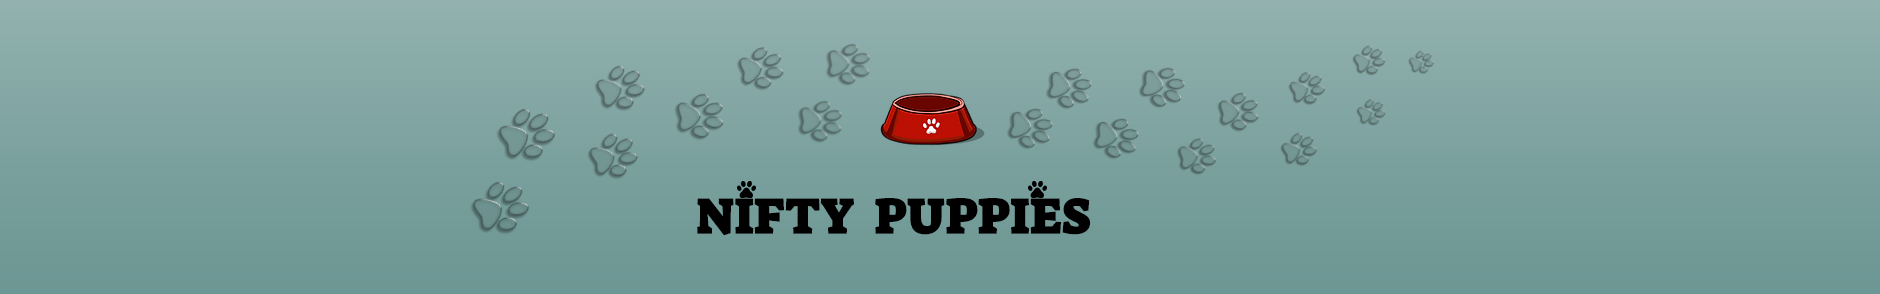
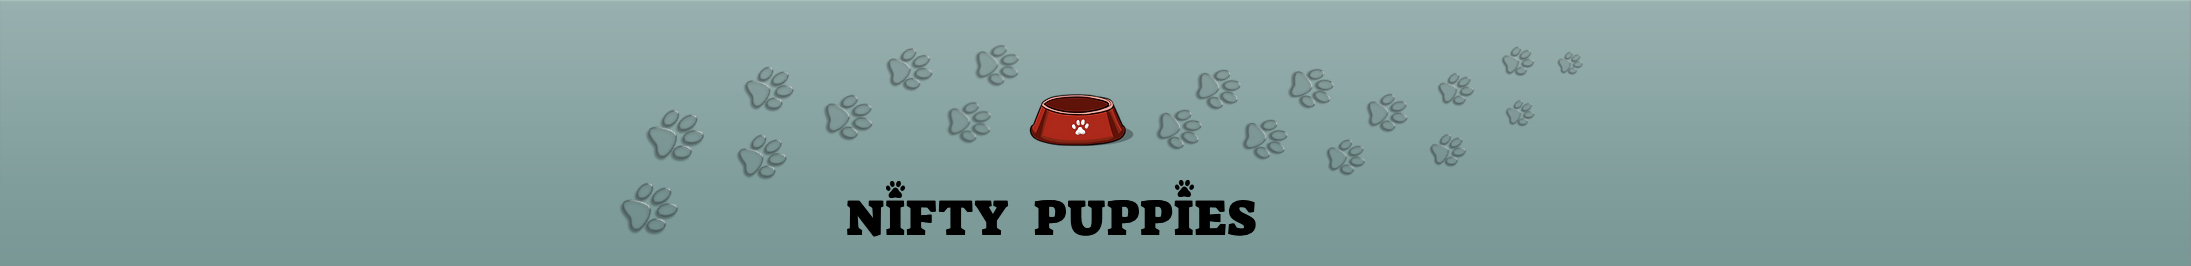
update 1

diff --git a/src/Components/Roadmap.js b/src/Components/Roadmap.js
@@ -7,7 +7,10 @@ import Img7 from "../Images/icon3.png";
 import Img8 from "../Images/icon4.png";
 import Img9 from "../Images/icon5.png";
 import { Link } from "react-router-dom";
-import paws from "../Images/paws.png";
+import paws from "../Images/paws1.png";
+import paws2 from "../Images/paws2.png";
+import paws3 from "../Images/paws3.png";
+import paws4 from "../Images/paws4.png";
 
 export default function Roadmap() {
   return (
@@ -55,9 +58,9 @@ export default function Roadmap() {
           <div className="col-4 col-sm-2 ml-auto">
             <img className="w-100" src={Img6} />
           </div>
-          <div className="col-12 col-sm-5 mt-5 mt-md-0">
+          <div className="col-12 col-sm-5 mt-5 mt-md-0 text-right text-sm-left">
             <h5 class="title">How much is that doggy in the window?</h5>
-            <p class="description text-left">
+            <p class="description text-right text-sm-left">
               <ul className="pl-3">
                 <li>
                   As soon as the first 100 free pups have been homes, we will
@@ -76,14 +79,14 @@ export default function Roadmap() {
           </div>
         </div>
         <div className="row">
-          <div className="col-1 col-sm-2"></div>
-          <div className="col-8 col-sm-4 ml-sm-auto">
-            <img src={paws} className="w-100 invertH" />
+          <div className="col-3 col-sm-5"></div>
+          <div className="col-8 col-sm-4">
+            <img src={paws2} className="w-100" />
           </div>
           <div className="col-1 col-sm-3"></div>
         </div>
         <div className="row flex-row-reverse">
-          <div className="col-12 col-sm-6"></div>
+          <div className="col-12 col-sm-"></div>
           <div className="col-4 col-sm-2 mr-auto">
             <img className="w-100" src={Img7} />
           </div>
@@ -103,17 +106,17 @@ export default function Roadmap() {
         <div className="row">
           <div className="col-1 col-sm-4"></div>
           <div className="col-8 col-sm-4">
-            <img src={paws} className="w-100 invertDeg" />
+            <img src={paws3} className="w-100" />
           </div>
         </div>
         <div className="row">
-          <div className="col-6 col-sm-5"></div>
-          <div className="col-4 col-sm-2 ml-au to">
+          <div className="col-8 col-sm-6"></div>
+          <div className="col-4 col-sm-2">
             <img className="w-100" src={Img8} />
           </div>
-          <div className="col-12 col-sm-5">
+          <div className="col-12 col-sm-4 text-right text-sm-left">
             <h5 class="title">Good dog!</h5>
-            <p class="description text-left">
+            <p class="description">
               <ul className="pl-3">
                 <li>
                   If you choose to nurture and train your pup you must engage
@@ -135,9 +138,9 @@ export default function Roadmap() {
           </div>
         </div>
         <div className="row">
-          <div className="col-4 col-sm-3"></div>
+          <div className="col-4 col-sm-4"></div>
           <div className="col-8 col-sm-4 mx-auto">
-            <img src={paws} className="w-100 invertDeg2" />
+            <img src={paws4} className="w-100" />
           </div>
         </div>
         <div className="row mb-4">

diff --git a/src/Components/Navbar.js b/src/Components/Navbar.js
@@ -45,7 +45,7 @@ export default function Navbar() {
                 <li class="nav-item">
                   <Link to="/Mintapuppy">
                     <a class="nav-link" href="#">
-                      MINT A PUPPY
+                      MINT
                     </a>
                   </Link>
                 </li>
@@ -157,7 +157,7 @@ export default function Navbar() {
                   <Link to="/Mintapuppy">
                     {" "}
                     <a class="nav-link" href="#">
-                      MINT A PUPPY
+                      MINT
                     </a>
                   </Link>
                 </li>
@@ -284,7 +284,7 @@ export default function Navbar() {
                   <Link to="/Mintapuppy">
                     {" "}
                     <a class="nav-link" href="#">
-                      MINT A PUPPY
+                      MINT
                     </a>
                   </Link>
                 </li>
@@ -415,7 +415,7 @@ export default function Navbar() {
                       <Link to="/Mintapuppy">
                         {" "}
                         <a class="dropdown-item" href="#">
-                          MINT A PUPPY
+                          MINT
                         </a>
                       </Link>
                     </li>
@@ -537,7 +537,7 @@ export default function Navbar() {
                       <Link to="/Mintapuppy">
                         {" "}
                         <a class="dropdown-item" href="#">
-                          MINT A PUPPY
+                          MINT
                         </a>
                       </Link>
                     </li>

diff --git a/src/Components/Home.css b/src/Components/Home.css
@@ -26,8 +26,8 @@ body {
 }
 .nav-link {
   background-color: #aa2522;
-  padding-left: 70px !important;
-  padding-right: 70px !important;
+  padding-left: 30px !important;
+  padding-right: 30px !important;
   margin: 1px;
   font-family: "Suez One";
   font-size: 17px;
@@ -589,27 +589,27 @@ a {
   text-decoration: none !important;
 }
 
-@media screen and (min-width: 1556px) {
+@media screen and (min-width: 1000px) {
   .cxl-flex {
     display: flex !important;
   }
 }
-@media screen and (min-width: 1385px) and (max-width: 1555px) {
+@media screen and (min-width: 798px) and (max-width: 999px) {
   .clg-flex {
     display: flex !important;
   }
 }
-@media screen and (min-width: 1184px) and (max-width: 1384px) {
+@media screen and (min-width: 561px) and (max-width: 797px) {
   .cmd-flex {
     display: flex !important;
   }
 }
-@media screen and (min-width: 700px) and (max-width: 1183px) {
+@media screen and (min-width: 451px) and (max-width: 560px) {
   .csm-flex {
     display: flex !important;
   }
 }
-@media screen and (min-width: 700px) {
+@media screen and (min-width: 451px) {
   .cs-flex {
     display: none !important;
   }
@@ -630,16 +630,10 @@ a {
 .invertH {
   transform: scaleX(-1);
 }
-.invertDeg {
-  transform: rotate(30deg);
-  transform-origin: 0;
-  margin-bottom: 100px;
-}
-.invertDeg2 {
-  transform: scaleX(-1) rotate(20deg);
-  margin-top: 50px;
-  margin-bottom: 50px;
-}
 .fullheight {
   min-height: 60vh;
+}
+.dropdown-menu {
+  left: auto;
+  right: 0 !important;
 }

diff --git a/src/Components/Thetopdogs.js b/src/Components/Thetopdogs.js
@@ -46,7 +46,7 @@ export default function Thetopdogs() {
                   </div>
                   <div className="col-md-4 text-center">
                     {" "}
-                    <img className="w-100 team" src={ImgI} />
+                    <img className="w-100 team invertH" src={ImgI} />
                     <br />
                     <label className="pt-2">
                       Janey de Nordwall

diff --git a/public/index.html b/public/index.html
@@ -59,11 +59,6 @@
       crossorigin="anonymous"
     ></script>
     <script
-      src="https://kit.fontawesome.com/fde32e8d30.js"
-      crossorigin="anonymous"
-    ></script>
-
-    <script
       src="https://cdn.jsdelivr.net/npm/@popperjs/core@2.10.2/dist/umd/popper.min.js"
       integrity="sha384-7+zCNj/IqJ95wo16oMtfsKbZ9ccEh31eOz1HGyDuCQ6wgnyJNSYdrPa03rtR1zdB"
       crossorigin="anonymous"
